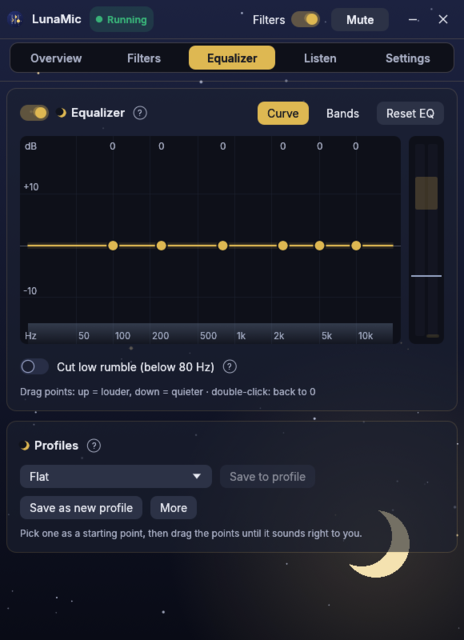
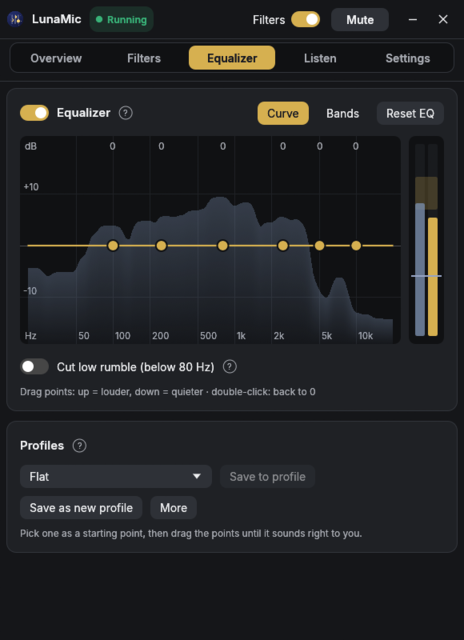
README: clearer layout, screenshots one below the other (Dark, live levels)

diff --git a/README.md b/README.md
@@ -1,33 +1,101 @@
-# LunaMic – Downloads
+<h1 align="center">LunaMic</h1>
 
-LunaMic filtert dein Mikrofon (Noise Gate, Kompressor, EQ, De-Esser …) und
-gibt es als virtuelles Mikrofon „LunaMic“ an Discord, OBS, Spiele und den
-Browser weiter. Für Windows und Linux (PipeWire).
+<p align="center">
+  <b>Dein Mikrofon, aufgeräumt.</b><br>
+  Noise Gate, Kompressor, EQ, De-Esser & Co. – als virtuelles Mikrofon „LunaMic“<br>
+  für Discord, OBS, Spiele und den Browser. Für <b>Windows</b> und <b>Linux</b> (PipeWire).
+</p>
+
+<p align="center">
+  <a href="https://github.com/Sajovara/LunaMic-releases/releases/latest"><b>⬇ Neueste Version herunterladen</b></a>
+</p>
 
 Hier liegen nur die fertigen Programmdateien.
 
+## Was es kann
+
+- **Weniger Störgeräusche** – Rauschunterdrückung, Expander und Noise Gate machen
+  Lüfter, Tastatur und Atmen in den Sprechpausen leise.
+- **Gleichmäßige Lautstärke** – Kompressor und Limiter fangen zu leise und zu laut ab.
+- **Klang nach Geschmack** – Equalizer zum Ziehen und De-Esser gegen scharfe S-Laute.
+- **Einfach zu bedienen** – jeder Filter hat An/Aus und einen Regler, alles in
+  einfachen Worten erklärt. Der Einrichtungs-Assistent stellt alles selbst ein.
+- **Klein und schlank** – eine Datei, kein Installer, Stummschalten per Tastenkürzel,
+  Symbol im Tray.
+
 ## So sieht es aus
 
-| Übersicht | Filter | Equalizer |
-|---|---|---|
-| <img src="screenshots/overview.png" width="260"> | <img src="screenshots/filters.png" width="260"> | <img src="screenshots/eq.png" width="260"> |
-| Pegel vorher/nachher, dein Mikro, wo du LunaMic in Discord, OBS & Co. auswählst. | Jeder Filter mit An/Aus und einem Regler, in einfachen Worten erklärt. | Kurve zum Ziehen oder Bänder, mit Profilen. |
+### Übersicht
 
-| Feinwerte | Hören & testen | Einstellungen |
-|---|---|---|
-| <img src="screenshots/filters-more.png" width="260"> | <img src="screenshots/listen.png" width="260"> | <img src="screenshots/settings.png" width="260"> |
-| Mehr Einstellungen klappen erst auf, wenn du sie brauchst. | Sich selbst hören, Tipp-Test, aufnehmen und vergleichen – mit und ohne Filter. | Einmessen, Stummschalten per Tastenkürzel, Autostart, Aussehen, Updates. |
+Pegel vorher und nachher, dein Mikrofon und wo du LunaMic in Discord, OBS & Co. auswählst.
 
-| Willkommen | Einrichtungs-Assistent |
-|---|---|
-| <img src="screenshots/welcome.png" width="260"> | <img src="screenshots/goals.png" width="260"> |
-| Beim ersten Start in drei Schritten erklärt. | Sag, was stört (Tastatur, Lüfter, Atmen …) – LunaMic misst und stellt sich selbst ein. |
+<p align="center"><img src="screenshots/overview.png" width="464" alt="Übersicht"></p>
 
-**Fünf Looks:** Lunar (Standard), Dark, Light, Warm und Terminal.
+### Filter
 
-| Dark | Light | Warm | Terminal |
-|---|---|---|---|
-| <img src="screenshots/dark.png" width="195"> | <img src="screenshots/light.png" width="195"> | <img src="screenshots/warm.png" width="195"> | <img src="screenshots/terminal.png" width="195"> |
+Jeder Filter mit An/Aus und einem Regler, in einfachen Worten erklärt.
+
+<p align="center"><img src="screenshots/filters.png" width="464" alt="Filter"></p>
+
+Feinwerte klappen erst auf, wenn du sie brauchst.
+
+<p align="center"><img src="screenshots/filters-more.png" width="464" alt="Filter – mehr Einstellungen"></p>
+
+### Equalizer
+
+Kurve zum Ziehen oder einzelne Bänder, dahinter siehst du live, wie laut welcher
+Bereich gerade ist. Mit Profilen zum Speichern.
+
+<p align="center"><img src="screenshots/eq.png" width="464" alt="Equalizer"></p>
+
+### Hören & testen
+
+Sich selbst hören, Tipp-Test, aufnehmen und vergleichen – mit und ohne Filter.
+
+<p align="center"><img src="screenshots/listen.png" width="464" alt="Hören und testen"></p>
+
+### Einrichtungs-Assistent
+
+Sag, was stört (Tastatur, Lüfter, Atmen …) – LunaMic misst und stellt sich selbst ein.
+
+<p align="center"><img src="screenshots/goals.png" width="464" alt="Einrichtungs-Assistent"></p>
+
+### Einstellungen
+
+Einmessen, Stummschalten per Tastenkürzel, Autostart, Aussehen, Updates.
+
+<p align="center"><img src="screenshots/settings.png" width="464" alt="Einstellungen"></p>
+
+### Willkommen
+
+Beim ersten Start in drei Schritten erklärt.
+
+<p align="center"><img src="screenshots/welcome.png" width="464" alt="Willkommen"></p>
+
+### Fünf Looks
+
+Dark (oben, mit sieben Akzentfarben), Lunar (Standard), Light, Warm und Terminal.
+
+<details>
+<summary><b>Die anderen Looks ansehen</b></summary>
+
+#### Lunar
+
+<p align="center"><img src="screenshots/lunar.png" width="464" alt="Lunar"></p>
+
+#### Light
+
+<p align="center"><img src="screenshots/light.png" width="464" alt="Light"></p>
+
+#### Warm
+
+<p align="center"><img src="screenshots/warm.png" width="464" alt="Warm"></p>
+
+#### Terminal
+
+<p align="center"><img src="screenshots/terminal.png" width="464" alt="Terminal"></p>
+
+</details>
 
 ## Herunterladen
 
